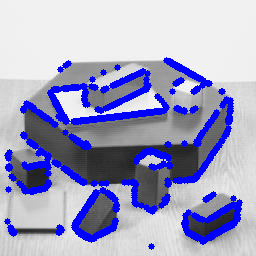
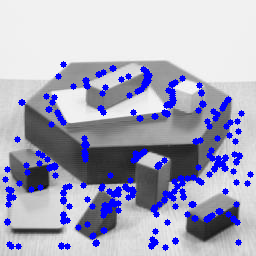
fixed bug and new image

diff --git a/corner_detect.cpp b/corner_detect.cpp
@@ -28,7 +28,7 @@ int main(int argc,char** argv){
   int window_size = 7; // 7x7
   int intensity_thr = atoi(argv[2]);
   cout << "intensity_thr: " << intensity_thr << endl;
-  int contig = 14; // min number of required contigous pixels for a corner
+  int contig = 12; // min number of required contigous pixels for a corner
 
   vector<int>* ixX_s = new vector<int>();
   vector<int>* ixY_s = new vector<int>();
@@ -73,16 +73,26 @@ bool isCorner(const Mat window,int thr,vector<int>* pix_x,vector<int>* pix_y,int
   // check if pixel intenisties are larger than thr from centre intenisty
   int cntr_pix_I = window.at<uchar>(window.rows/2,window.cols/2);
   int pix_I = 0;
-  int x,y;
+  int x,y,pos;
 
-  vector<bool> thr_test;
+  vector<int> thr_test;
+  /*
+  0 - same
+  1 - darker
+  2 - brighter
+  */
 
   for (int v=0;v<pix_x->size();v++){
     x = pix_x->at(v);
     y = pix_y->at(v);
 
     pix_I = (int)window.at<uchar>(x,y);
-    thr_test.push_back(abs(pix_I-cntr_pix_I) >= thr);
+    if (abs(pix_I-cntr_pix_I) < thr){
+      thr_test.push_back(0);
+    }else{
+      pos = (pix_I-cntr_pix_I) > 0 ? 2:1;
+      thr_test.push_back(pos);
+    }
   }
 
   // thr_test now populated using threshold test
@@ -91,21 +101,22 @@ bool isCorner(const Mat window,int thr,vector<int>* pix_x,vector<int>* pix_y,int
   int chk[4] = {1,9,5,13};
   int c = 0;
   for(int z=0;z<4;z++){
-    if(thr_test.at(chk[z]-1))
+    if(thr_test.at(chk[z]-1) != 0)
       c++;
   }
   if(c>=3){
       // perform full check with contingency
       // looping over thr_test
-      bool cached = thr_test.at(0);
+      int cached = thr_test.at(0);
       int cont_count = 0;
+
       for(int l=1;l<thr_test.size();l++){
-        if(thr_test.at(l) == cached){
+        if(thr_test.at(l) == cached && thr_test.at(l) != 0){
           cont_count++;
         }else{
           cont_count = 0;
-          cached = thr_test.at(l);
         }
+        cached = thr_test.at(l);
       }
       return cont_count >= cont_N;
 
